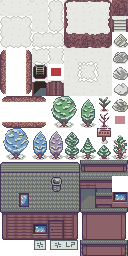
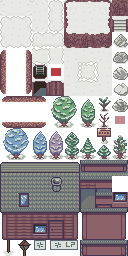
feat: update assets

Changed region(s): [[0.1562, 0.9375, 0.25, 1.0], [0.0312, 0.9375, 0.125, 1.0]]

diff --git a/assets/maps/tilesets/outdoor_1.tsx b/assets/maps/tilesets/outdoor_1.tsx
@@ -1,23 +1,24 @@
 <?xml version="1.0" encoding="UTF-8"?>
-<tileset version="1.4" tiledversion="2020.08.05" name="tileset_1 " tilewidth="16" tileheight="16" tilecount="128" columns="8">
- <image source="../../images/outdoor_1.png" width="128" height="256"/>
+<tileset version="1.4" tiledversion="2020.08.05" name="tileset_1 " tilewidth="16" tileheight="16" tilecount="136" columns="8">
+ <image source="../../images/outdoor_1.png" width="128" height="272"/>
  <tile id="0" type="Ground"/>
  <tile id="1" type="Ground"/>
  <tile id="2" type="Ground"/>
  <tile id="3" type="Ground"/>
  <tile id="4" type="Solid">
   <properties>
-   <property name="action" value="(dialog '((&quot;&gt;&quot; &quot;A wall.&quot;)))"/>
+   <property name="action" value="(dialog '((&quot;&gt;&quot; &quot;A rocky wall.&quot;)))"/>
   </properties>
  </tile>
  <tile id="5" type="Solid">
   <properties>
-   <property name="action" value="(dialog '((&quot;&gt;&quot; &quot;A wall.&quot;)))"/>
+   <property name="action">(if (= (orientation) 0)
+    (dialog '((&quot;&gt;&quot; &quot;A rocky wall.&quot;))))</property>
   </properties>
  </tile>
  <tile id="6" type="Solid">
   <properties>
-   <property name="action" value="(dialog '((&quot;&gt;&quot; &quot;A wall.&quot;)))"/>
+   <property name="action" value="(dialog '((&quot;&gt;&quot; &quot;A rocky wall.&quot;)))"/>
   </properties>
  </tile>
  <tile id="7" type="Solid">
@@ -31,13 +32,15 @@
  <tile id="11" type="Ground"/>
  <tile id="12" type="Solid">
   <properties>
-   <property name="action" value="(dialog '((&quot;&gt;&quot; &quot;A wall.&quot;)))"/>
+   <property name="action">(if (= (orientation) 2)
+    (dialog '((&quot;&gt;&quot; &quot;A rocky wall.&quot;))))</property>
   </properties>
  </tile>
  <tile id="13" type="Ground"/>
  <tile id="14" type="Solid">
   <properties>
-   <property name="action" value="(dialog '((&quot;&gt;&quot; &quot;A wall.&quot;)))"/>
+   <property name="action">(if (= (orientation) 3)
+    (dialog '((&quot;&gt;&quot; &quot;A rocky wall.&quot;))))</property>
   </properties>
  </tile>
  <tile id="15" type="Ground"/>
@@ -47,17 +50,18 @@
  <tile id="19" type="Ground"/>
  <tile id="20" type="Solid">
   <properties>
-   <property name="action" value="(dialog '((&quot;&gt;&quot; &quot;A wall.&quot;)))"/>
+   <property name="action" value="(dialog '((&quot;&gt;&quot; &quot;A rocky wall.&quot;)))"/>
   </properties>
  </tile>
  <tile id="21" type="Solid">
   <properties>
-   <property name="action" value="(dialog '((&quot;&gt;&quot; &quot;A wall.&quot;)))"/>
+   <property name="action">(if (= (orientation) 1)
+    (dialog '((&quot;&gt;&quot; &quot;A rocky wall.&quot;))))</property>
   </properties>
  </tile>
  <tile id="22" type="Solid">
   <properties>
-   <property name="action" value="(dialog '((&quot;&gt;&quot; &quot;A wall.&quot;)))"/>
+   <property name="action" value="(dialog '((&quot;&gt;&quot; &quot;A rocky wall.&quot;)))"/>
   </properties>
  </tile>
  <tile id="23" type="Solid">
@@ -292,12 +296,21 @@
    <property name="action" value="(dialog '((&quot;&gt;&quot; &quot;It's not a good thing to look into other people's homes.&quot;)))"/>
   </properties>
  </tile>
- <tile id="115" type="Solid"/>
+ <tile id="115" type="Solid">
+  <properties>
+   <property name="action" value="(dialog '((&quot;&gt;&quot; &quot;This door is closed.&quot;)))"/>
+  </properties>
+ </tile>
  <tile id="116" type="Solid"/>
  <tile id="117" type="Solid"/>
  <tile id="118" type="Solid"/>
  <tile id="119" type="Solid"/>
- <tile id="120" type="Solid"/>
+ <tile id="120" type="Ground">
+  <properties>
+   <property name="flying" type="bool" value="true"/>
+   <property name="slippery" type="bool" value="true"/>
+  </properties>
+ </tile>
  <tile id="121" type="Solid"/>
  <tile id="122" type="Solid">
   <properties>
@@ -317,4 +330,5 @@
  <tile id="125" type="Solid"/>
  <tile id="126" type="Solid"/>
  <tile id="127" type="Solid"/>
+ <tile id="128" type="Solid"/>
 </tileset>

diff --git a/assets/maps/tilesets/lab.tsx b/assets/maps/tilesets/lab.tsx
@@ -17,12 +17,14 @@
  <tile id="5" type="Solid"/>
  <tile id="6" type="Solid">
   <properties>
-   <property name="action" value="(dialog '((&quot;&gt;&quot; &quot;Test tubes and other scientific stuff.&quot;)))"/>
+   <property name="action">(if (= (orientation) 1)
+    (dialog '((&quot;&gt;&quot; &quot;Test tubes and other scientific stuff.&quot;))))</property>
   </properties>
  </tile>
  <tile id="7" type="Solid">
   <properties>
-   <property name="action" value="(dialog '((&quot;&gt;&quot; &quot;Test tubes and other scientific stuff.&quot;)))"/>
+   <property name="action">(if (= (orientation) 1)
+    (dialog '((&quot;&gt;&quot; &quot;Test tubes and other scientific stuff.&quot;))))</property>
   </properties>
  </tile>
  <tile id="8" type="Solid"/>
@@ -31,12 +33,14 @@
  <tile id="11" type="Solid"/>
  <tile id="12" type="Solid">
   <properties>
-   <property name="action" value="(dialog '((&quot;&gt;&quot; &quot;Someone has turned everything upside down.&quot;)))"/>
+   <property name="action">(if (= (orientation) 1)
+    (dialog '((&quot;&gt;&quot; &quot;Someone has turned everything upside down.&quot;))))</property>
   </properties>
  </tile>
  <tile id="13" type="Solid">
   <properties>
-   <property name="action" value="(dialog '((&quot;&gt;&quot; &quot;Someone has turned everything upside down.&quot;)))"/>
+   <property name="action">(if (= (orientation) 1)
+    (dialog '((&quot;&gt;&quot; &quot;Someone has turned everything upside down.&quot;))))</property>
   </properties>
  </tile>
  <tile id="14" type="Ground"/>

diff --git a/assets/maps/tilesets/indoor.tsx b/assets/maps/tilesets/indoor.tsx
@@ -23,12 +23,14 @@
  <tile id="11" type="Solid"/>
  <tile id="12" type="Solid">
   <properties>
-   <property name="action" value="(dialog '((&quot;&gt;&quot; &quot;It's full of books here.&quot;)))"/>
+   <property name="action">(if (= (orientation) 1)
+    (dialog '((&quot;&gt;&quot; &quot;It's full of books here.&quot;))))</property>
   </properties>
  </tile>
  <tile id="13" type="Solid">
   <properties>
-   <property name="action" value="(dialog '((&quot;&gt;&quot; &quot;It's full of books here.&quot;)))"/>
+   <property name="action">(if (= (orientation) 1)
+    (dialog '((&quot;&gt;&quot; &quot;It's full of books here.&quot;))))</property>
   </properties>
  </tile>
  <tile id="14" type="Ground">
@@ -49,8 +51,18 @@
  </tile>
  <tile id="18" type="Solid"/>
  <tile id="19" type="Solid"/>
- <tile id="20" type="Solid"/>
- <tile id="21" type="Solid"/>
+ <tile id="20" type="Solid">
+  <properties>
+   <property name="action">(if (= (orientation) 0)
+    (dialog '((&quot;&gt;&quot; &quot;There is some food between the mattresses of this sofa.&quot;))))</property>
+  </properties>
+ </tile>
+ <tile id="21" type="Solid">
+  <properties>
+   <property name="action">(if (= (orientation) 0)
+    (dialog '((&quot;&gt;&quot; &quot;There is some food between the mattresses of this sofa.&quot;))))</property>
+  </properties>
+ </tile>
  <tile id="22" type="Solid"/>
  <tile id="23" type="Solid"/>
  <tile id="24" type="Hurdle">
